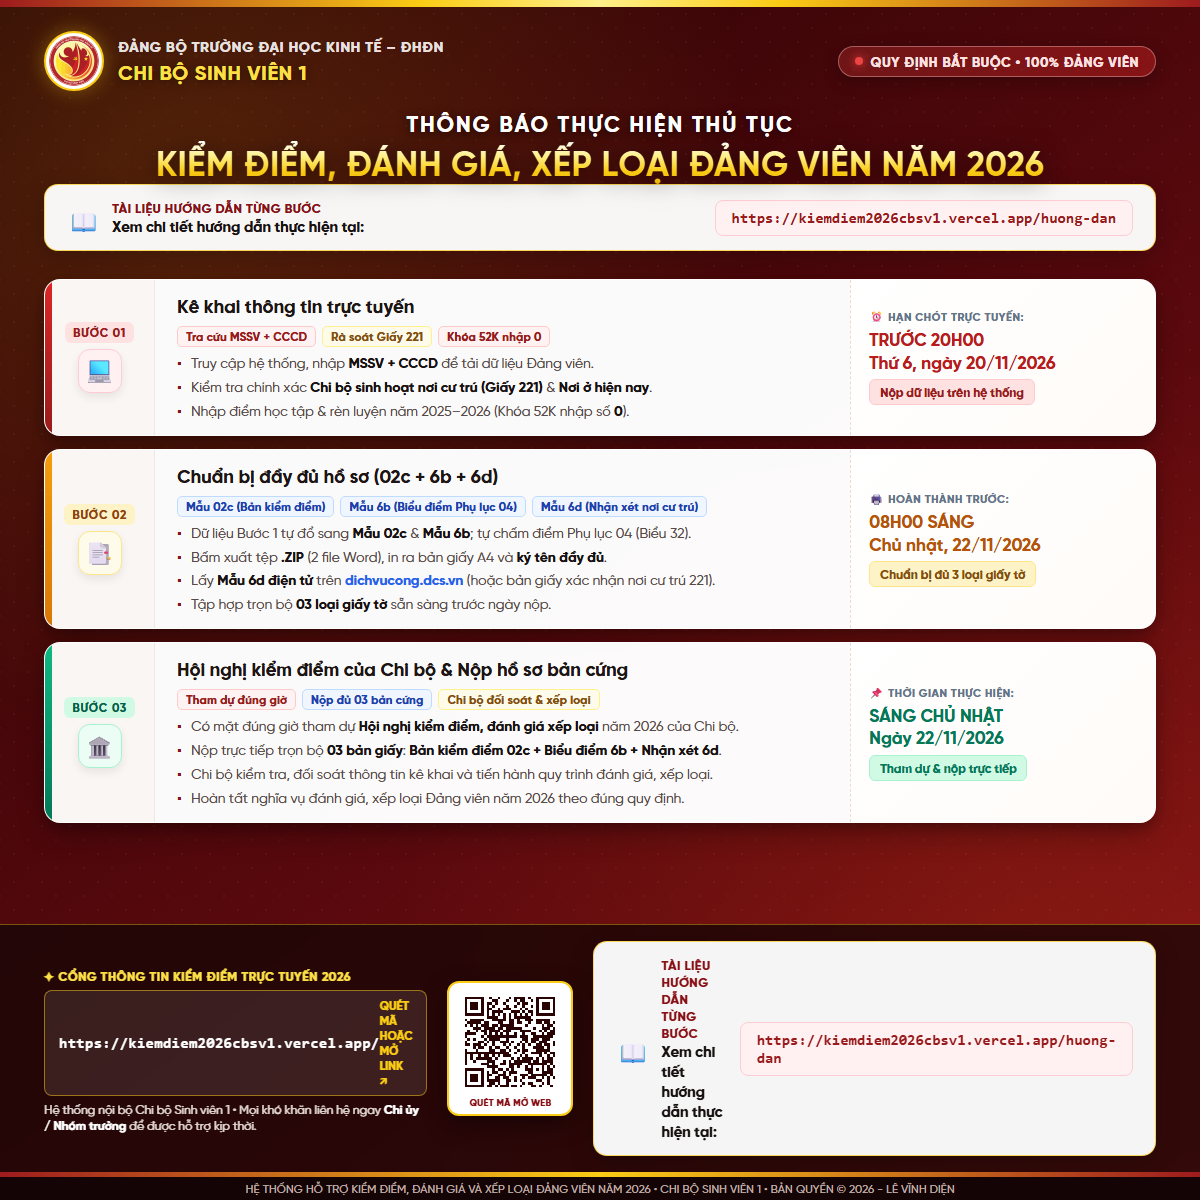
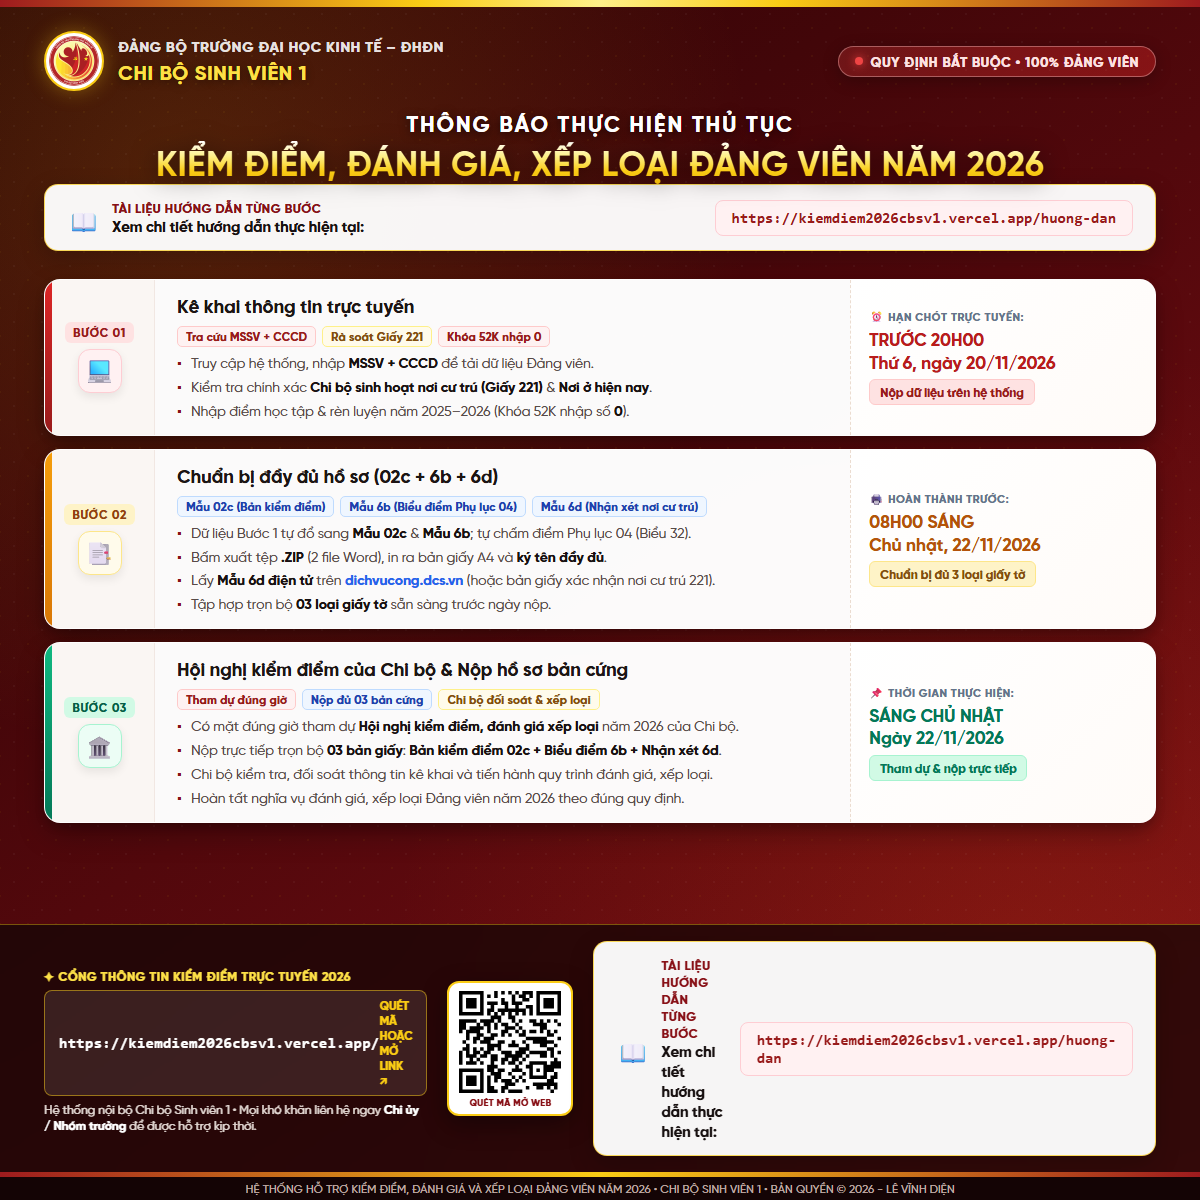
fix(poster): embed exact QR SVG for kiemdiem2026cbsv1.vercel.app

Changed region(s): [[0.37, 0.8017, 0.4625, 0.925]]

diff --git a/poster-yeu-cau.html b/poster-yeu-cau.html
@@ -841,10 +841,15 @@
           </div>
 
           <div class="qr-modern-box">
-            <svg xmlns="http://www.w3.org/2000/svg" viewBox="0 0 37 37" shape-rendering="crispEdges">
-              <rect width="37" height="37" fill="#ffffff"/>
-              <path fill="#2a0305" d="M2,2h7v1h-7zM11,2h1v1h-1zM14,2h1v1h-1zM18,2h1v1h-1zM20,2h4v1h-4zM25,2h1v1h-1zM28,2h7v1h-7zM2,3h1v1h-1zM8,3h1v1h-1zM12,3h2v1h-2zM17,3h1v1h-1zM20,3h1v1h-1zM22,3h2v1h-2zM26,3h1v1h-1zM28,3h1v1h-1zM34,3h1v1h-1zM2,4h1v1h-1zM4,4h3v1h-3zM8,4h1v1h-1zM10,4h2v1h-2zM13,4h1v1h-1zM16,4h1v1h-1zM21,4h1v1h-1zM23,4h2v1h-2zM28,4h1v1h-1zM30,4h3v1h-3zM34,4h1v1h-1zM2,5h1v1h-1zM4,5h3v1h-3zM8,5h1v1h-1zM10,5h1v1h-1zM12,5h1v1h-1zM17,5h1v1h-1zM20,5h1v1h-1zM23,5h1v1h-1zM26,5h1v1h-1zM28,5h1v1h-1zM30,5h3v1h-3zM34,5h1v1h-1zM2,6h1v1h-1zM4,6h3v1h-3zM8,6h1v1h-1zM10,6h2v1h-2zM14,6h1v1h-1zM16,6h3v1h-3zM22,6h1v1h-1zM24,6h1v1h-1zM28,6h1v1h-1zM30,6h3v1h-3zM34,6h1v1h-1zM2,7h1v1h-1zM8,7h1v1h-1zM10,7h1v1h-1zM12,7h4v1h-4zM19,7h3v1h-3zM23,7h1v1h-1zM25,7h2v1h-2zM28,7h1v1h-1zM34,7h1v1h-1zM2,8h7v1h-7zM10,8h1v1h-1zM12,8h1v1h-1zM14,8h1v1h-1zM16,8h1v1h-1zM18,8h1v1h-1zM20,8h1v1h-1zM22,8h1v1h-1zM24,8h1v1h-1zM26,8h1v1h-1zM28,8h7v1h-7zM10,9h4v1h-4zM16,9h1v1h-1zM18,9h1v1h-1zM20,9h6v1h-6zM2,10h1v1h-1zM4,10h5v1h-5zM12,10h5v1h-5zM18,10h2v1h-2zM21,10h1v1h-1zM24,10h3v1h-3zM28,10h5v1h-5zM3,11h5v1h-5zM9,11h2v1h-2zM14,11h2v1h-2zM18,11h2v1h-2zM21,11h2v1h-2zM25,11h1v1h-1zM28,11h2v1h-2zM31,11h2v1h-2zM34,11h1v1h-1zM2,12h1v1h-1zM4,12h1v1h-1zM6,12h1v1h-1zM8,12h3v1h-3zM12,12h2v1h-2zM15,12h5v1h-5zM24,12h1v1h-1zM30,12h1v1h-1zM32,12h2v1h-2zM5,13h3v1h-3zM9,13h4v1h-4zM14,13h2v1h-2zM17,13h6v1h-6zM27,13h1v1h-1zM30,13h3v1h-3zM34,13h1v1h-1zM3,14h1v1h-1zM6,14h1v1h-1zM8,14h2v1h-2zM11,14h4v1h-4zM16,14h3v1h-3zM22,14h4v1h-4zM29,14h1v1h-1zM31,14h1v1h-1zM33,14h2v1h-2zM2,15h4v1h-4zM9,15h1v1h-1zM11,15h1v1h-1zM13,15h1v1h-1zM15,15h1v1h-1zM17,15h1v1h-1zM20,15h1v1h-1zM23,15h1v1h-1zM26,15h2v1h-2zM30,15h1v1h-1zM32,15h3v1h-3zM2,16h1v1h-1zM8,16h1v1h-1zM10,16h11v1h-11zM22,16h3v1h-3zM27,16h7v1h-7zM3,17h1v1h-1zM5,17h1v1h-1zM9,17h1v1h-1zM11,17h4v1h-4zM17,17h1v1h-1zM23,17h2v1h-2zM26,17h3v1h-3zM30,17h3v1h-3zM2,18h1v1h-1zM7,18h2v1h-2zM10,18h1v1h-1zM12,18h1v1h-1zM15,18h3v1h-3zM19,18h1v1h-1zM22,18h1v1h-1zM24,18h1v1h-1zM26,18h2v1h-2zM29,18h3v1h-3zM34,18h1v1h-1zM2,19h2v1h-2zM5,19h3v1h-3zM9,19h1v1h-1zM12,19h1v1h-1zM16,19h1v1h-1zM18,19h1v1h-1zM21,19h1v1h-1zM23,19h1v1h-1zM25,19h1v1h-1zM28,19h2v1h-2zM31,19h2v1h-2zM34,19h1v1h-1zM5,20h1v1h-1zM7,20h2v1h-2zM11,20h1v1h-1zM13,20h2v1h-2zM17,20h1v1h-1zM20,20h1v1h-1zM23,20h1v1h-1zM27,20h4v1h-4zM32,20h1v1h-1zM2,21h1v1h-1zM6,21h1v1h-1zM11,21h2v1h-2zM15,21h2v1h-2zM18,21h1v1h-1zM21,21h1v1h-1zM23,21h2v1h-2zM28,21h5v1h-5zM2,22h16v1h-16zM20,22h1v1h-1zM23,22h1v1h-1zM26,22h4v1h-4zM31,22h1v1h-1zM33,22h2v1h-2zM2,23h1v1h-1zM4,23h1v1h-1zM7,23h1v1h-1zM9,23h2v1h-2zM12,23h1v1h-1zM14,23h1v1h-1zM16,23h3v1h-3zM22,23h1v1h-1zM24,23h1v1h-1zM29,23h1v1h-1zM32,23h1v1h-1zM34,23h1v1h-1zM2,24h1v1h-1zM4,24h1v1h-1zM6,24h6v1h-6zM13,24h1v1h-1zM19,24h1v1h-1zM21,24h1v1h-1zM23,24h4v1h-4zM28,24h1v1h-1zM30,24h1v1h-1zM32,24h2v1h-2zM2,25h1v1h-1zM5,25h1v1h-1zM10,25h3v1h-3zM16,25h1v1h-1zM18,25h1v1h-1zM20,25h6v1h-6zM27,25h2v1h-2zM30,25h4v1h-4zM2,26h1v1h-1zM8,26h3v1h-3zM12,26h1v1h-1zM15,26h2v1h-2zM18,26h5v1h-5zM25,26h7v1h-7zM33,26h1v1h-1zM10,27h4v1h-4zM18,27h2v1h-2zM21,27h1v1h-1zM24,27h1v1h-1zM26,27h1v1h-1zM30,27h1v1h-1zM32,27h1v1h-1zM34,27h1v1h-1zM2,28h7v1h-7zM12,28h1v1h-1zM14,28h2v1h-2zM17,28h1v1h-1zM19,28h1v1h-1zM24,28h3v1h-3zM28,28h1v1h-1zM30,28h1v1h-1zM32,28h2v1h-2zM2,29h1v1h-1zM8,29h1v1h-1zM10,29h1v1h-1zM12,29h2v1h-2zM16,29h1v1h-1zM18,29h3v1h-3zM25,29h2v1h-2zM30,29h4v1h-4zM2,30h1v1h-1zM4,30h3v1h-3zM8,30h1v1h-1zM10,30h2v1h-2zM14,30h3v1h-3zM18,30h1v1h-1zM22,30h3v1h-3zM26,30h6v1h-6zM33,30h1v1h-1zM2,31h1v1h-1zM4,31h3v1h-3zM8,31h1v1h-1zM10,31h1v1h-1zM13,31h2v1h-2zM16,31h2v1h-2zM20,31h1v1h-1zM23,31h1v1h-1zM25,31h3v1h-3zM30,31h1v1h-1zM32,31h1v1h-1zM34,31h1v1h-1zM2,32h1v1h-1zM4,32h3v1h-3zM8,32h1v1h-1zM10,32h5v1h-5zM17,32h2v1h-2zM20,32h1v1h-1zM22,32h1v1h-1zM28,32h2v1h-2zM32,32h1v1h-1zM2,33h1v1h-1zM8,33h1v1h-1zM11,33h2v1h-2zM14,33h1v1h-1zM17,33h1v1h-1zM23,33h1v1h-1zM25,33h2v1h-2zM30,33h1v1h-1zM32,33h1v1h-1zM2,34h7v1h-7zM10,34h2v1h-2zM13,34h1v1h-1zM15,34h3v1h-3zM19,34h2v1h-2zM22,34h1v1h-1zM26,34h2v1h-2zM29,34h1v1h-1zM33,34h1v1h-1z"/>
-            </svg>
+            <svg xmlns="http://www.w3.org/2000/svg" version="1.1" width="150" height="150" viewBox="0 0 29 29">
+	<!-- Created with https://api.qrserver.com (QR Code API, see goQR.me/api for information) -->
+	<title>QR Code</title>
+	<desc>https://kiemdiem2026cbsv1.vercel.app/</desc>
+	<rect style="fill:rgb(255, 255, 255);fill-opacity:1" x="0" y="0" width="29" height="29" />
+	<g id="elements">
+		<path style="fill:rgb(0, 0, 0)" d="M 0,0 l 1,0 0,1 -1,0 z M 1,0 l 1,0 0,1 -1,0 z M 2,0 l 1,0 0,1 -1,0 z M 3,0 l 1,0 0,1 -1,0 z M 4,0 l 1,0 0,1 -1,0 z M 5,0 l 1,0 0,1 -1,0 z M 6,0 l 1,0 0,1 -1,0 z M 10,0 l 1,0 0,1 -1,0 z M 12,0 l 1,0 0,1 -1,0 z M 14,0 l 1,0 0,1 -1,0 z M 16,0 l 1,0 0,1 -1,0 z M 18,0 l 1,0 0,1 -1,0 z M 19,0 l 1,0 0,1 -1,0 z M 20,0 l 1,0 0,1 -1,0 z M 22,0 l 1,0 0,1 -1,0 z M 23,0 l 1,0 0,1 -1,0 z M 24,0 l 1,0 0,1 -1,0 z M 25,0 l 1,0 0,1 -1,0 z M 26,0 l 1,0 0,1 -1,0 z M 27,0 l 1,0 0,1 -1,0 z M 28,0 l 1,0 0,1 -1,0 z M 0,1 l 1,0 0,1 -1,0 z M 6,1 l 1,0 0,1 -1,0 z M 8,1 l 1,0 0,1 -1,0 z M 10,1 l 1,0 0,1 -1,0 z M 15,1 l 1,0 0,1 -1,0 z M 17,1 l 1,0 0,1 -1,0 z M 18,1 l 1,0 0,1 -1,0 z M 20,1 l 1,0 0,1 -1,0 z M 22,1 l 1,0 0,1 -1,0 z M 28,1 l 1,0 0,1 -1,0 z M 0,2 l 1,0 0,1 -1,0 z M 2,2 l 1,0 0,1 -1,0 z M 3,2 l 1,0 0,1 -1,0 z M 4,2 l 1,0 0,1 -1,0 z M 6,2 l 1,0 0,1 -1,0 z M 12,2 l 1,0 0,1 -1,0 z M 15,2 l 1,0 0,1 -1,0 z M 18,2 l 1,0 0,1 -1,0 z M 19,2 l 1,0 0,1 -1,0 z M 22,2 l 1,0 0,1 -1,0 z M 24,2 l 1,0 0,1 -1,0 z M 25,2 l 1,0 0,1 -1,0 z M 26,2 l 1,0 0,1 -1,0 z M 28,2 l 1,0 0,1 -1,0 z M 0,3 l 1,0 0,1 -1,0 z M 2,3 l 1,0 0,1 -1,0 z M 3,3 l 1,0 0,1 -1,0 z M 4,3 l 1,0 0,1 -1,0 z M 6,3 l 1,0 0,1 -1,0 z M 8,3 l 1,0 0,1 -1,0 z M 9,3 l 1,0 0,1 -1,0 z M 10,3 l 1,0 0,1 -1,0 z M 12,3 l 1,0 0,1 -1,0 z M 13,3 l 1,0 0,1 -1,0 z M 15,3 l 1,0 0,1 -1,0 z M 16,3 l 1,0 0,1 -1,0 z M 17,3 l 1,0 0,1 -1,0 z M 22,3 l 1,0 0,1 -1,0 z M 24,3 l 1,0 0,1 -1,0 z M 25,3 l 1,0 0,1 -1,0 z M 26,3 l 1,0 0,1 -1,0 z M 28,3 l 1,0 0,1 -1,0 z M 0,4 l 1,0 0,1 -1,0 z M 2,4 l 1,0 0,1 -1,0 z M 3,4 l 1,0 0,1 -1,0 z M 4,4 l 1,0 0,1 -1,0 z M 6,4 l 1,0 0,1 -1,0 z M 9,4 l 1,0 0,1 -1,0 z M 13,4 l 1,0 0,1 -1,0 z M 16,4 l 1,0 0,1 -1,0 z M 19,4 l 1,0 0,1 -1,0 z M 20,4 l 1,0 0,1 -1,0 z M 22,4 l 1,0 0,1 -1,0 z M 24,4 l 1,0 0,1 -1,0 z M 25,4 l 1,0 0,1 -1,0 z M 26,4 l 1,0 0,1 -1,0 z M 28,4 l 1,0 0,1 -1,0 z M 0,5 l 1,0 0,1 -1,0 z M 6,5 l 1,0 0,1 -1,0 z M 8,5 l 1,0 0,1 -1,0 z M 9,5 l 1,0 0,1 -1,0 z M 11,5 l 1,0 0,1 -1,0 z M 12,5 l 1,0 0,1 -1,0 z M 13,5 l 1,0 0,1 -1,0 z M 14,5 l 1,0 0,1 -1,0 z M 15,5 l 1,0 0,1 -1,0 z M 16,5 l 1,0 0,1 -1,0 z M 17,5 l 1,0 0,1 -1,0 z M 18,5 l 1,0 0,1 -1,0 z M 20,5 l 1,0 0,1 -1,0 z M 22,5 l 1,0 0,1 -1,0 z M 28,5 l 1,0 0,1 -1,0 z M 0,6 l 1,0 0,1 -1,0 z M 1,6 l 1,0 0,1 -1,0 z M 2,6 l 1,0 0,1 -1,0 z M 3,6 l 1,0 0,1 -1,0 z M 4,6 l 1,0 0,1 -1,0 z M 5,6 l 1,0 0,1 -1,0 z M 6,6 l 1,0 0,1 -1,0 z M 8,6 l 1,0 0,1 -1,0 z M 10,6 l 1,0 0,1 -1,0 z M 12,6 l 1,0 0,1 -1,0 z M 14,6 l 1,0 0,1 -1,0 z M 16,6 l 1,0 0,1 -1,0 z M 18,6 l 1,0 0,1 -1,0 z M 20,6 l 1,0 0,1 -1,0 z M 22,6 l 1,0 0,1 -1,0 z M 23,6 l 1,0 0,1 -1,0 z M 24,6 l 1,0 0,1 -1,0 z M 25,6 l 1,0 0,1 -1,0 z M 26,6 l 1,0 0,1 -1,0 z M 27,6 l 1,0 0,1 -1,0 z M 28,6 l 1,0 0,1 -1,0 z M 9,7 l 1,0 0,1 -1,0 z M 10,7 l 1,0 0,1 -1,0 z M 11,7 l 1,0 0,1 -1,0 z M 14,7 l 1,0 0,1 -1,0 z M 15,7 l 1,0 0,1 -1,0 z M 0,8 l 1,0 0,1 -1,0 z M 1,8 l 1,0 0,1 -1,0 z M 2,8 l 1,0 0,1 -1,0 z M 3,8 l 1,0 0,1 -1,0 z M 4,8 l 1,0 0,1 -1,0 z M 6,8 l 1,0 0,1 -1,0 z M 7,8 l 1,0 0,1 -1,0 z M 8,8 l 1,0 0,1 -1,0 z M 9,8 l 1,0 0,1 -1,0 z M 11,8 l 1,0 0,1 -1,0 z M 15,8 l 1,0 0,1 -1,0 z M 17,8 l 1,0 0,1 -1,0 z M 20,8 l 1,0 0,1 -1,0 z M 21,8 l 1,0 0,1 -1,0 z M 23,8 l 1,0 0,1 -1,0 z M 25,8 l 1,0 0,1 -1,0 z M 27,8 l 1,0 0,1 -1,0 z M 0,9 l 1,0 0,1 -1,0 z M 1,9 l 1,0 0,1 -1,0 z M 5,9 l 1,0 0,1 -1,0 z M 7,9 l 1,0 0,1 -1,0 z M 8,9 l 1,0 0,1 -1,0 z M 10,9 l 1,0 0,1 -1,0 z M 12,9 l 1,0 0,1 -1,0 z M 13,9 l 1,0 0,1 -1,0 z M 16,9 l 1,0 0,1 -1,0 z M 21,9 l 1,0 0,1 -1,0 z M 22,9 l 1,0 0,1 -1,0 z M 23,9 l 1,0 0,1 -1,0 z M 24,9 l 1,0 0,1 -1,0 z M 28,9 l 1,0 0,1 -1,0 z M 0,10 l 1,0 0,1 -1,0 z M 1,10 l 1,0 0,1 -1,0 z M 3,10 l 1,0 0,1 -1,0 z M 4,10 l 1,0 0,1 -1,0 z M 5,10 l 1,0 0,1 -1,0 z M 6,10 l 1,0 0,1 -1,0 z M 8,10 l 1,0 0,1 -1,0 z M 10,10 l 1,0 0,1 -1,0 z M 13,10 l 1,0 0,1 -1,0 z M 14,10 l 1,0 0,1 -1,0 z M 15,10 l 1,0 0,1 -1,0 z M 17,10 l 1,0 0,1 -1,0 z M 23,10 l 1,0 0,1 -1,0 z M 24,10 l 1,0 0,1 -1,0 z M 0,11 l 1,0 0,1 -1,0 z M 2,11 l 1,0 0,1 -1,0 z M 3,11 l 1,0 0,1 -1,0 z M 4,11 l 1,0 0,1 -1,0 z M 5,11 l 1,0 0,1 -1,0 z M 8,11 l 1,0 0,1 -1,0 z M 12,11 l 1,0 0,1 -1,0 z M 13,11 l 1,0 0,1 -1,0 z M 16,11 l 1,0 0,1 -1,0 z M 18,11 l 1,0 0,1 -1,0 z M 20,11 l 1,0 0,1 -1,0 z M 21,11 l 1,0 0,1 -1,0 z M 23,11 l 1,0 0,1 -1,0 z M 25,11 l 1,0 0,1 -1,0 z M 27,11 l 1,0 0,1 -1,0 z M 2,12 l 1,0 0,1 -1,0 z M 5,12 l 1,0 0,1 -1,0 z M 6,12 l 1,0 0,1 -1,0 z M 9,12 l 1,0 0,1 -1,0 z M 10,12 l 1,0 0,1 -1,0 z M 12,12 l 1,0 0,1 -1,0 z M 14,12 l 1,0 0,1 -1,0 z M 17,12 l 1,0 0,1 -1,0 z M 18,12 l 1,0 0,1 -1,0 z M 25,12 l 1,0 0,1 -1,0 z M 26,12 l 1,0 0,1 -1,0 z M 2,13 l 1,0 0,1 -1,0 z M 4,13 l 1,0 0,1 -1,0 z M 5,13 l 1,0 0,1 -1,0 z M 7,13 l 1,0 0,1 -1,0 z M 8,13 l 1,0 0,1 -1,0 z M 9,13 l 1,0 0,1 -1,0 z M 19,13 l 1,0 0,1 -1,0 z M 20,13 l 1,0 0,1 -1,0 z M 21,13 l 1,0 0,1 -1,0 z M 22,13 l 1,0 0,1 -1,0 z M 23,13 l 1,0 0,1 -1,0 z M 24,13 l 1,0 0,1 -1,0 z M 28,13 l 1,0 0,1 -1,0 z M 1,14 l 1,0 0,1 -1,0 z M 4,14 l 1,0 0,1 -1,0 z M 6,14 l 1,0 0,1 -1,0 z M 7,14 l 1,0 0,1 -1,0 z M 8,14 l 1,0 0,1 -1,0 z M 11,14 l 1,0 0,1 -1,0 z M 12,14 l 1,0 0,1 -1,0 z M 15,14 l 1,0 0,1 -1,0 z M 18,14 l 1,0 0,1 -1,0 z M 21,14 l 1,0 0,1 -1,0 z M 22,14 l 1,0 0,1 -1,0 z M 23,14 l 1,0 0,1 -1,0 z M 24,14 l 1,0 0,1 -1,0 z M 25,14 l 1,0 0,1 -1,0 z M 26,14 l 1,0 0,1 -1,0 z M 2,15 l 1,0 0,1 -1,0 z M 8,15 l 1,0 0,1 -1,0 z M 9,15 l 1,0 0,1 -1,0 z M 10,15 l 1,0 0,1 -1,0 z M 11,15 l 1,0 0,1 -1,0 z M 14,15 l 1,0 0,1 -1,0 z M 15,15 l 1,0 0,1 -1,0 z M 16,15 l 1,0 0,1 -1,0 z M 19,15 l 1,0 0,1 -1,0 z M 23,15 l 1,0 0,1 -1,0 z M 24,15 l 1,0 0,1 -1,0 z M 27,15 l 1,0 0,1 -1,0 z M 1,16 l 1,0 0,1 -1,0 z M 2,16 l 1,0 0,1 -1,0 z M 4,16 l 1,0 0,1 -1,0 z M 6,16 l 1,0 0,1 -1,0 z M 8,16 l 1,0 0,1 -1,0 z M 9,16 l 1,0 0,1 -1,0 z M 11,16 l 1,0 0,1 -1,0 z M 17,16 l 1,0 0,1 -1,0 z M 18,16 l 1,0 0,1 -1,0 z M 19,16 l 1,0 0,1 -1,0 z M 25,16 l 1,0 0,1 -1,0 z M 26,16 l 1,0 0,1 -1,0 z M 0,17 l 1,0 0,1 -1,0 z M 2,17 l 1,0 0,1 -1,0 z M 4,17 l 1,0 0,1 -1,0 z M 5,17 l 1,0 0,1 -1,0 z M 7,17 l 1,0 0,1 -1,0 z M 8,17 l 1,0 0,1 -1,0 z M 12,17 l 1,0 0,1 -1,0 z M 13,17 l 1,0 0,1 -1,0 z M 14,17 l 1,0 0,1 -1,0 z M 16,17 l 1,0 0,1 -1,0 z M 17,17 l 1,0 0,1 -1,0 z M 18,17 l 1,0 0,1 -1,0 z M 20,17 l 1,0 0,1 -1,0 z M 21,17 l 1,0 0,1 -1,0 z M 22,17 l 1,0 0,1 -1,0 z M 23,17 l 1,0 0,1 -1,0 z M 24,17 l 1,0 0,1 -1,0 z M 26,17 l 1,0 0,1 -1,0 z M 28,17 l 1,0 0,1 -1,0 z M 0,18 l 1,0 0,1 -1,0 z M 2,18 l 1,0 0,1 -1,0 z M 3,18 l 1,0 0,1 -1,0 z M 4,18 l 1,0 0,1 -1,0 z M 6,18 l 1,0 0,1 -1,0 z M 7,18 l 1,0 0,1 -1,0 z M 9,18 l 1,0 0,1 -1,0 z M 10,18 l 1,0 0,1 -1,0 z M 13,18 l 1,0 0,1 -1,0 z M 14,18 l 1,0 0,1 -1,0 z M 15,18 l 1,0 0,1 -1,0 z M 16,18 l 1,0 0,1 -1,0 z M 17,18 l 1,0 0,1 -1,0 z M 19,18 l 1,0 0,1 -1,0 z M 23,18 l 1,0 0,1 -1,0 z M 24,18 l 1,0 0,1 -1,0 z M 26,18 l 1,0 0,1 -1,0 z M 0,19 l 1,0 0,1 -1,0 z M 3,19 l 1,0 0,1 -1,0 z M 5,19 l 1,0 0,1 -1,0 z M 9,19 l 1,0 0,1 -1,0 z M 10,19 l 1,0 0,1 -1,0 z M 12,19 l 1,0 0,1 -1,0 z M 13,19 l 1,0 0,1 -1,0 z M 15,19 l 1,0 0,1 -1,0 z M 16,19 l 1,0 0,1 -1,0 z M 18,19 l 1,0 0,1 -1,0 z M 27,19 l 1,0 0,1 -1,0 z M 0,20 l 1,0 0,1 -1,0 z M 2,20 l 1,0 0,1 -1,0 z M 3,20 l 1,0 0,1 -1,0 z M 4,20 l 1,0 0,1 -1,0 z M 6,20 l 1,0 0,1 -1,0 z M 9,20 l 1,0 0,1 -1,0 z M 12,20 l 1,0 0,1 -1,0 z M 14,20 l 1,0 0,1 -1,0 z M 15,20 l 1,0 0,1 -1,0 z M 17,20 l 1,0 0,1 -1,0 z M 20,20 l 1,0 0,1 -1,0 z M 21,20 l 1,0 0,1 -1,0 z M 22,20 l 1,0 0,1 -1,0 z M 23,20 l 1,0 0,1 -1,0 z M 24,20 l 1,0 0,1 -1,0 z M 26,20 l 1,0 0,1 -1,0 z M 27,20 l 1,0 0,1 -1,0 z M 28,20 l 1,0 0,1 -1,0 z M 8,21 l 1,0 0,1 -1,0 z M 9,21 l 1,0 0,1 -1,0 z M 10,21 l 1,0 0,1 -1,0 z M 16,21 l 1,0 0,1 -1,0 z M 19,21 l 1,0 0,1 -1,0 z M 20,21 l 1,0 0,1 -1,0 z M 24,21 l 1,0 0,1 -1,0 z M 25,21 l 1,0 0,1 -1,0 z M 26,21 l 1,0 0,1 -1,0 z M 27,21 l 1,0 0,1 -1,0 z M 28,21 l 1,0 0,1 -1,0 z M 0,22 l 1,0 0,1 -1,0 z M 1,22 l 1,0 0,1 -1,0 z M 2,22 l 1,0 0,1 -1,0 z M 3,22 l 1,0 0,1 -1,0 z M 4,22 l 1,0 0,1 -1,0 z M 5,22 l 1,0 0,1 -1,0 z M 6,22 l 1,0 0,1 -1,0 z M 8,22 l 1,0 0,1 -1,0 z M 9,22 l 1,0 0,1 -1,0 z M 11,22 l 1,0 0,1 -1,0 z M 12,22 l 1,0 0,1 -1,0 z M 15,22 l 1,0 0,1 -1,0 z M 16,22 l 1,0 0,1 -1,0 z M 17,22 l 1,0 0,1 -1,0 z M 20,22 l 1,0 0,1 -1,0 z M 22,22 l 1,0 0,1 -1,0 z M 24,22 l 1,0 0,1 -1,0 z M 25,22 l 1,0 0,1 -1,0 z M 26,22 l 1,0 0,1 -1,0 z M 0,23 l 1,0 0,1 -1,0 z M 6,23 l 1,0 0,1 -1,0 z M 9,23 l 1,0 0,1 -1,0 z M 10,23 l 1,0 0,1 -1,0 z M 11,23 l 1,0 0,1 -1,0 z M 14,23 l 1,0 0,1 -1,0 z M 18,23 l 1,0 0,1 -1,0 z M 20,23 l 1,0 0,1 -1,0 z M 24,23 l 1,0 0,1 -1,0 z M 27,23 l 1,0 0,1 -1,0 z M 0,24 l 1,0 0,1 -1,0 z M 2,24 l 1,0 0,1 -1,0 z M 3,24 l 1,0 0,1 -1,0 z M 4,24 l 1,0 0,1 -1,0 z M 6,24 l 1,0 0,1 -1,0 z M 8,24 l 1,0 0,1 -1,0 z M 10,24 l 1,0 0,1 -1,0 z M 11,24 l 1,0 0,1 -1,0 z M 15,24 l 1,0 0,1 -1,0 z M 17,24 l 1,0 0,1 -1,0 z M 20,24 l 1,0 0,1 -1,0 z M 21,24 l 1,0 0,1 -1,0 z M 22,24 l 1,0 0,1 -1,0 z M 23,24 l 1,0 0,1 -1,0 z M 24,24 l 1,0 0,1 -1,0 z M 26,24 l 1,0 0,1 -1,0 z M 27,24 l 1,0 0,1 -1,0 z M 0,25 l 1,0 0,1 -1,0 z M 2,25 l 1,0 0,1 -1,0 z M 3,25 l 1,0 0,1 -1,0 z M 4,25 l 1,0 0,1 -1,0 z M 6,25 l 1,0 0,1 -1,0 z M 8,25 l 1,0 0,1 -1,0 z M 10,25 l 1,0 0,1 -1,0 z M 12,25 l 1,0 0,1 -1,0 z M 13,25 l 1,0 0,1 -1,0 z M 14,25 l 1,0 0,1 -1,0 z M 16,25 l 1,0 0,1 -1,0 z M 18,25 l 1,0 0,1 -1,0 z M 25,25 l 1,0 0,1 -1,0 z M 26,25 l 1,0 0,1 -1,0 z M 0,26 l 1,0 0,1 -1,0 z M 2,26 l 1,0 0,1 -1,0 z M 3,26 l 1,0 0,1 -1,0 z M 4,26 l 1,0 0,1 -1,0 z M 6,26 l 1,0 0,1 -1,0 z M 8,26 l 1,0 0,1 -1,0 z M 13,26 l 1,0 0,1 -1,0 z M 14,26 l 1,0 0,1 -1,0 z M 15,26 l 1,0 0,1 -1,0 z M 21,26 l 1,0 0,1 -1,0 z M 22,26 l 1,0 0,1 -1,0 z M 23,26 l 1,0 0,1 -1,0 z M 24,26 l 1,0 0,1 -1,0 z M 25,26 l 1,0 0,1 -1,0 z M 26,26 l 1,0 0,1 -1,0 z M 27,26 l 1,0 0,1 -1,0 z M 0,27 l 1,0 0,1 -1,0 z M 6,27 l 1,0 0,1 -1,0 z M 8,27 l 1,0 0,1 -1,0 z M 9,27 l 1,0 0,1 -1,0 z M 12,27 l 1,0 0,1 -1,0 z M 13,27 l 1,0 0,1 -1,0 z M 19,27 l 1,0 0,1 -1,0 z M 22,27 l 1,0 0,1 -1,0 z M 23,27 l 1,0 0,1 -1,0 z M 25,27 l 1,0 0,1 -1,0 z M 27,27 l 1,0 0,1 -1,0 z M 0,28 l 1,0 0,1 -1,0 z M 1,28 l 1,0 0,1 -1,0 z M 2,28 l 1,0 0,1 -1,0 z M 3,28 l 1,0 0,1 -1,0 z M 4,28 l 1,0 0,1 -1,0 z M 5,28 l 1,0 0,1 -1,0 z M 6,28 l 1,0 0,1 -1,0 z M 8,28 l 1,0 0,1 -1,0 z M 9,28 l 1,0 0,1 -1,0 z M 10,28 l 1,0 0,1 -1,0 z M 12,28 l 1,0 0,1 -1,0 z M 14,28 l 1,0 0,1 -1,0 z M 15,28 l 1,0 0,1 -1,0 z M 16,28 l 1,0 0,1 -1,0 z M 17,28 l 1,0 0,1 -1,0 z M 26,28 l 1,0 0,1 -1,0 z " />
+	</g>
+</svg>
             <span>QUÉT MÃ MỞ WEB</span>
           </div>
 
